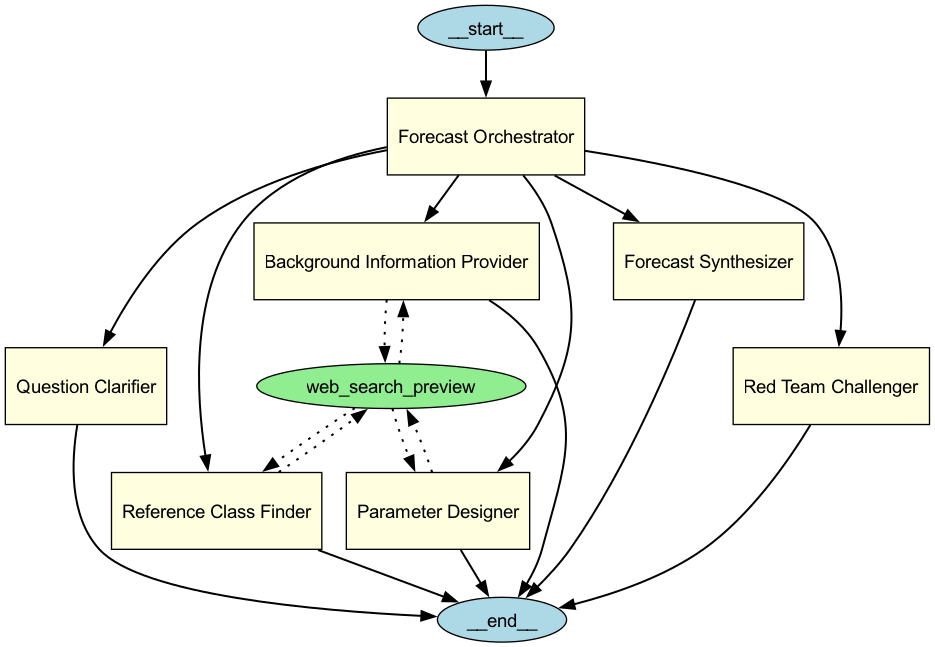
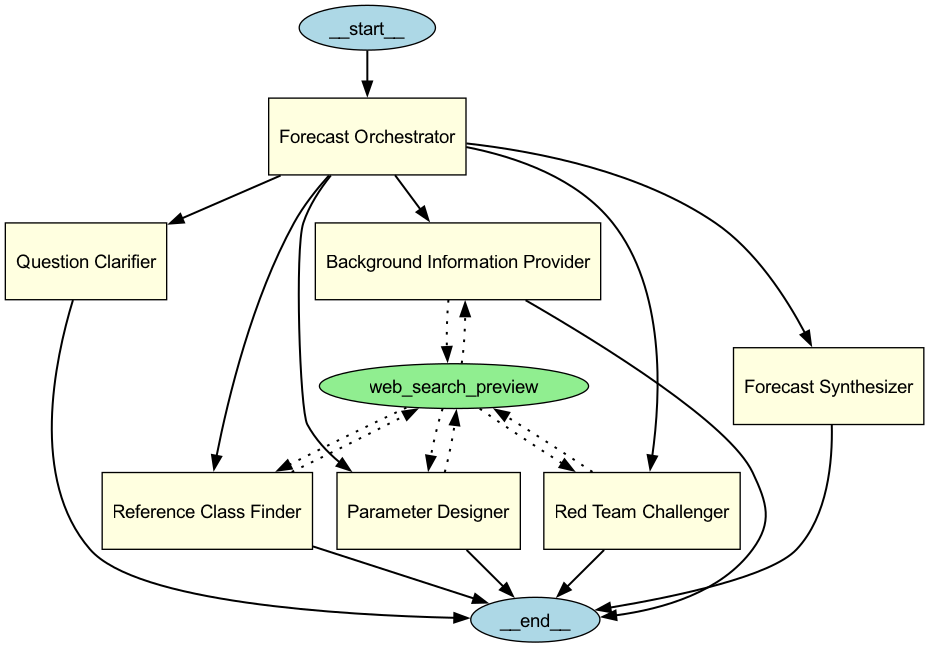
information passing correctly I think

diff --git a/main.py b/main.py
@@ -33,8 +33,8 @@ class ParameterSample(BaseModel):
     reasoning: str = Field(description="Reasoning for this estimate")
     sources: List[str] = Field(description="Sources supporting this estimate", default_factory=list)
 
-class ReferenceClassOutput(BaseModel):
-    """Output format for reference class forecasting"""
+class ReferenceClass(BaseModel):
+    """Output format for a single reference class"""
     base_rate: float = Field(description="Historical base rate/frequency of similar events")
     low: float = Field(description="Lower bound of 90% confidence interval for base rate")
     high: float = Field(description="Upper bound of 90% confidence interval for base rate")
@@ -43,6 +43,11 @@ class ReferenceClassOutput(BaseModel):
     bibliography: List[str] = Field(description="Citations for historical data sources")
     reasoning: str = Field(description="Reasoning for selecting this reference class")
 
+class ReferenceClassOutput(BaseModel):
+    """Output format for reference class forecasting with multiple classes"""
+    reference_classes: List[ReferenceClass] = Field(description="List of reference classes with their base rates")
+    recommended_class_index: int = Field(description="Index of the recommended reference class to use (0-based)")
+    selection_reasoning: str = Field(description="Reasoning for recommending the primary reference class")
 
 class ForecastParameters(BaseModel):
     """Output format for forecast parameters"""
@@ -122,17 +127,23 @@ Be objective and factual. Prioritize information that would be most relevant for
 
 reference_class_agent = Agent(
     name="Reference Class Finder",
-    instructions="""You identify the appropriate reference class for a forecasting question and determine the historical base rate.
+    instructions="""You identify appropriate reference classes for a forecasting question and determine the historical base rates.
 
 For any forecasting question:
-1. First identify what reference class is most appropriate - the set of similar historical events or situations
-2. Search for historical data on this reference class using the web search tool
-3. Determine the base rate (frequency of occurrence) within this reference class
-4. Provide a 90% confidence interval around this base rate
-5. Document your sources with at least 3 web searches
-6. Explain your reasoning for selecting this reference class
+1. Generate THREE different reference classes that could be applied to this question
+2. For each reference class:
+   - Identify what makes this reference class appropriate
+   - Search for historical data on this reference class using the web search tool
+   - Determine the base rate (frequency of occurrence) within this reference class
+   - Provide a 90% confidence interval around this base rate
+   - Document your sources with at least 1-2 web searches per reference class
+   - Explain your reasoning for selecting this reference class
+3. Recommend which of the three reference classes should be the primary one to use
+4. Provide reasoning for your recommendation
 
-Focus on finding the most relevant historical analogues. Be precise about:
+Make sure the reference classes are genuinely different from each other to provide diverse perspectives on the question.
+
+Focus on finding relevant historical analogues. Be precise about:
 - Sample size (how many cases in your reference class)
 - Time period covered
 - Any adjustments needed for this specific case
@@ -140,9 +151,10 @@ Focus on finding the most relevant historical analogues. Be precise about:
 
 Example:
 "What is the probability that China will invade Taiwan by 2030?"
-- Reference class: Military invasions of claimed territories by nuclear powers (1950-present)
-- Base rate: 9 invasions out of 37 similar territorial claims (24%)
-- Search for data on historical territorial disputes, nuclear power military actions, etc.
+Reference Classes:
+1. Military invasions of claimed territories by nuclear powers (1950-present)
+2. Historical Chinese military actions to enforce territorial claims
+3. Militarized disputes between countries with strong economic ties
 
 Aim for objective, quantifiable reference classes whenever possible.""",
     tools=[WebSearchTool()],
@@ -386,10 +398,6 @@ async def main():
             
             # Start the background info collection in parallel with reference class search
             print("\n=== Finding relevant reference class and gathering background info ===")
-            reference_class_task = asyncio.create_task(Runner.run(
-                reference_class_agent,
-                final_question,
-            ))
             
             # Get current date for background info agent
             current_date = datetime.datetime.now().strftime("%Y-%m-%d")
@@ -398,19 +406,82 @@ async def main():
                 f"Provide background information as of {current_date} relevant to the question: {final_question}",
             ))
             
-            # Wait for reference class results first
-            reference_class_result = await reference_class_task
-            reference_class = reference_class_result.final_output_as(ReferenceClassOutput)
-            print(f"\nReference class: {reference_class.reference_class_description}")
-            print(f"Base rate: {reference_class.base_rate} [{reference_class.low} - {reference_class.high}]")
-            print(f"Sample size: {reference_class.sample_size} historical examples")
-            print(f"Sources: {', '.join(reference_class.bibliography)}")
+            # Wait for background info first since it provides context for reference class selection
+            background_info_result = await background_info_task
+            background_info = background_info_result.final_output_as(BackgroundInfoOutput)
             
-            # Next, determine the key parameters and continue with the background info collection
+            # Print background info
+            print("\n=== Current World Context ===")
+            print(f"Current date: {background_info.current_date}")
+            print(f"Summary: {background_info.summary}")
+            print("\nRecent Major Events:")
+            for event in background_info.major_recent_events[:3]:  # Show top 3 events
+                print(f"- {event}")
+            print("\nKey Ongoing Trends:")
+            for trend in background_info.key_trends[:3]:  # Show top 3 trends
+                print(f"- {trend}")
+            
+            # Now search for reference classes with background context
+            reference_class_prompt = f"""
+            Find appropriate reference classes for the following question:
+            {final_question}
+            
+            Current world context:
+            {background_info.summary}
+            
+            Recent major events:
+            {', '.join(background_info.major_recent_events[:3])}
+            
+            Key ongoing trends:
+            {', '.join(background_info.key_trends[:3])}
+            """
+            
+            reference_class_task = asyncio.create_task(Runner.run(
+                reference_class_agent,
+                reference_class_prompt,
+            ))
+            
+            # Wait for reference class results
+            reference_class_result = await reference_class_task
+            reference_class_output = reference_class_result.final_output_as(ReferenceClassOutput)
+            
+            # Display all three reference classes
+            print("\n=== REFERENCE CLASSES ===")
+            for i, ref_class in enumerate(reference_class_output.reference_classes):
+                is_recommended = i == reference_class_output.recommended_class_index
+                print(f"\nReference Class {i+1}{' (RECOMMENDED)' if is_recommended else ''}:")
+                print(f"Description: {ref_class.reference_class_description}")
+                print(f"Base rate: {ref_class.base_rate} [{ref_class.low} - {ref_class.high}]")
+                print(f"Sample size: {ref_class.sample_size} historical examples")
+                print(f"Sources: {', '.join(ref_class.bibliography)}")
+                print(f"Reasoning: {ref_class.reasoning}")
+            
+            print(f"\nRecommendation reasoning: {reference_class_output.selection_reasoning}")
+            
+            # Get the recommended reference class for further processing
+            recommended_ref_class = reference_class_output.reference_classes[reference_class_output.recommended_class_index]
+            
+            # Next, determine the key parameters and include background info
             print("\n=== Designing key parameters ===")
+            parameter_design_prompt = f"""
+            Design parameters for the forecasting question: {final_question}
+            
+            Current world context:
+            {background_info.summary}
+            
+            Recent major events:
+            {', '.join(background_info.major_recent_events[:3])}
+            
+            Key ongoing trends:
+            {', '.join(background_info.key_trends[:3])}
+            
+            Reference class: {recommended_ref_class.reference_class_description}
+            Base rate: {recommended_ref_class.base_rate} [{recommended_ref_class.low} - {recommended_ref_class.high}]
+            """
+            
             parameter_design_task = asyncio.create_task(Runner.run(
                 parameter_design_agent,
-                f"Question: {final_question}\nReference class: {reference_class.reference_class_description}\nBase rate: {reference_class.base_rate}",
+                parameter_design_prompt,
             ))
             
             # Process parameters while background info continues to gather
@@ -426,14 +497,37 @@ async def main():
                 print(f"{i}. {param.name}: {param.description}")
                 print(f"   Scale: {param.scale_description}")
             
+            # Create a summary of all parameters to provide context
+            all_parameters_context = ""
+            for i, param in enumerate(parameter_design.parameters, 1):
+                all_parameters_context += f"{i}. {param.name}: {param.description}\n"
+                all_parameters_context += f"   Scale: {param.scale_description}\n"
+                if param.interacts_with:
+                    all_parameters_context += f"   Interacts with: {', '.join(param.interacts_with)}\n"
+                if param.interaction_description:
+                    all_parameters_context += f"   Interaction: {param.interaction_description}\n"
+                all_parameters_context += "\n"
+            
             async def research_parameter(param: ParameterMeta) -> ParameterSample:
                 """Run research for a single parameter"""
                 param_prompt = f"""
                 Research the following parameter for the question: {final_question}
                 
+                Current world context:
+                {background_info.summary}
+                
+                Recent major events:
+                {', '.join(background_info.major_recent_events[:3])}
+                
+                Key ongoing trends:
+                {', '.join(background_info.key_trends[:3])}
+                
                 Parameter: {param.name}
                 Description: {param.description}
                 Scale: {param.scale_description}
+                
+                Other parameters being researched:
+                {all_parameters_context}
                 
                 Based on your research, provide an estimate with 90% confidence interval.
                 """
@@ -452,25 +546,6 @@ async def main():
                 *(research_parameter(param) for param in parameter_design.parameters)
             )
             
-            # Check if background info is complete
-            if not background_info_task.done():
-                print("\n=== Waiting for background information to complete ===")
-            
-            # Wait for background info to complete
-            background_info_result = await background_info_task
-            background_info = background_info_result.final_output_as(BackgroundInfoOutput)
-            
-            # Print background info
-            print("\n=== Current World Context ===")
-            print(f"Current date: {background_info.current_date}")
-            print(f"Summary: {background_info.summary}")
-            print("\nRecent Major Events:")
-            for event in background_info.major_recent_events[:3]:  # Show top 3 events
-                print(f"- {event}")
-            print("\nKey Ongoing Trends:")
-            for trend in background_info.key_trends[:3]:  # Show top 3 trends
-                print(f"- {trend}")
-            
             # Print interim results from the parameter research
             print("\n=== Parameter estimates ===")
             for sample in parameter_samples:
@@ -479,19 +554,34 @@ async def main():
             
             # Synthesize the final forecast
             print("\n=== Creating final forecast ===")
+            
+            # Create the reference classes information for the synthesis prompt
+            reference_classes_info = ""
+            for i, ref_class in enumerate(reference_class_output.reference_classes):
+                is_recommended = i == reference_class_output.recommended_class_index
+                reference_classes_info += f"Reference Class {i+1}{' (RECOMMENDED)' if is_recommended else ''}:\n"
+                reference_classes_info += f"- Description: {ref_class.reference_class_description}\n"
+                reference_classes_info += f"- Base rate: {ref_class.base_rate} [{ref_class.low} - {ref_class.high}]\n"
+                reference_classes_info += f"- Sample size: {ref_class.sample_size}\n\n"
+            
             synthesis_prompt = f"""
             Create a final forecast for: {final_question}
             
             Current context as of {background_info.current_date}:
             {background_info.summary}
             
-            Reference class: {reference_class.reference_class_description}
-            Base rate: {reference_class.base_rate} [{reference_class.low} - {reference_class.high}]
+            Multiple reference classes were identified:
+            {reference_classes_info}
+            Recommendation reasoning: {reference_class_output.selection_reasoning}
+            
+            Primary reference class used: {recommended_ref_class.reference_class_description}
+            Base rate from primary reference class: {recommended_ref_class.base_rate} [{recommended_ref_class.low} - {recommended_ref_class.high}]
             
             Parameter estimates:
             {json.dumps([sample.model_dump() for sample in parameter_samples], indent=2)}
             
-            Synthesize these into a final probability estimate.
+            Synthesize these into a final probability estimate. You may consider insights from all reference classes,
+            but primarily use the recommended one as your starting point.
             """
             
             synthesis_result = await Runner.run(
@@ -511,16 +601,45 @@ async def main():
             
             # Optionally run red team analysis
             print("\n=== Running red team challenge ===")
+            
+            # Create a full context for the red team including all reference classes
+            reference_classes_info = ""
+            for i, ref_class in enumerate(reference_class_output.reference_classes):
+                is_recommended = i == reference_class_output.recommended_class_index
+                reference_classes_info += f"Reference Class {i+1}{' (RECOMMENDED)' if is_recommended else ''}:\n"
+                reference_classes_info += f"- Description: {ref_class.reference_class_description}\n"
+                reference_classes_info += f"- Base rate: {ref_class.base_rate} [{ref_class.low} - {ref_class.high}]\n"
+                reference_classes_info += f"- Sample size: {ref_class.sample_size}\n"
+                reference_classes_info += f"- Reasoning: {ref_class.reasoning}\n\n"
+            
+            # Create parameter info for red team
+            parameters_info = ""
+            for sample in parameter_samples:
+                parameters_info += f"{sample.name}: {sample.value} [{sample.low} - {sample.high}]\n"
+                parameters_info += f"- Reasoning: {sample.reasoning}\n\n"
+            
             red_team_prompt = f"""
             Challenge the following forecast:
             
             Question: {final_question}
-            Final estimate: {final_forecast.final_estimate} [{final_forecast.final_low} - {final_forecast.final_high}]
-            Base rate: {final_forecast.base_rate}
-            Key parameters: {', '.join(final_forecast.key_parameters)}
-            Rationale: {final_forecast.rationale}
             
-            Provide a strong alternative view.
+            Current world context:
+            {background_info.summary}
+            
+            Reference classes considered:
+            {reference_classes_info}
+            
+            Parameter estimates used:
+            {parameters_info}
+            
+            Final forecast:
+            - Estimate: {final_forecast.final_estimate} [{final_forecast.final_low} - {final_forecast.final_high}]
+            - Base rate used: {final_forecast.base_rate}
+            - Key parameters: {', '.join(final_forecast.key_parameters)}
+            - Rationale: {final_forecast.rationale}
+            
+            Provide a strong alternative view. Consider whether different reference classes should have been used,
+            if parameters were incorrectly estimated, or if important factors were overlooked.
             """
             
             red_team_result = await Runner.run(

diff --git a/README.md b/README.md
@@ -4,8 +4,8 @@ Notes:
 
 what is the probability that there is a full scale invasion of taiwan by china for each year up to 2030?
 
-TODO: 
-- new agent to set initial background information, what is the current state of the world? 
-  - what year is it? what has happened recently? need to adjust for model knowledge cutoff. 
-- multiple reference classes? 
-- specify number of parameters to research
+TODO:  
+- refactor into multiple files, better system architecture
+- doing more robust parameter and parameter estimates, more background research, 
+- consideration of expert or other data sources
+- mcts, linear models, and other autoregressive reasoning. 
